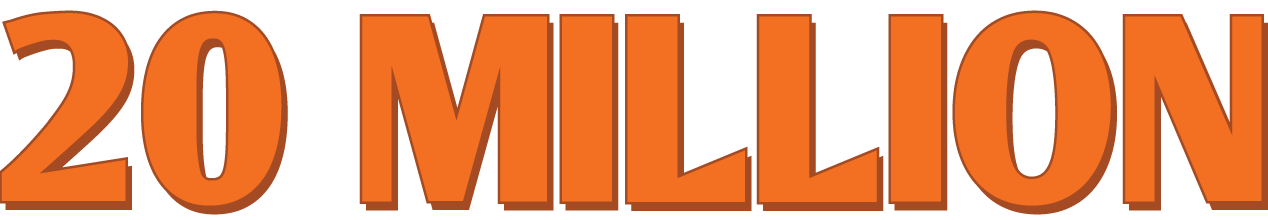
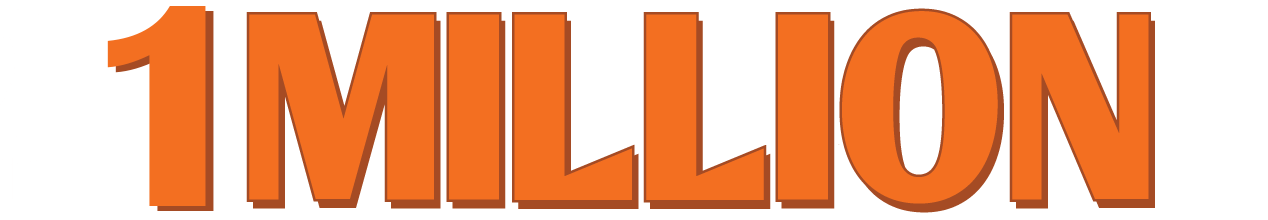
first commit

diff --git a/index Static.html b/index Static.html
@@ -74,7 +74,7 @@ Do the following if you're using your customized build of modernizr (http://www.
       <article id="thesis" class="fluid">
         <p class="medium">Every Day, there are an estimated</p>
         <div class="fluid USInfections">
-        <div id="million" class="backgroundPositionBottom"><p>20 MILLION</p></div>
+        <img src="images/20million.png" alt="1 Million">
           <div class="infectionsUS"><p>STD infections acquired every day worldwide<a href="https://www.who.int/news-room/fact-sheets/detail/sexually-transmitted-infections-(stis)#:~:text=More%20than%201%20million%20sexually,trichomoniasis%20(1%2C%202)." target="_self" title="Want more info? Click here to check out CDC's fact sheet." class="tooltip_link"><img src="images/question_mark.png" alt="More info icon."/></a></p></div>
         </div>
       </article>

diff --git a/css/lowdown-fluid-grid.css b/css/lowdown-fluid-grid.css
@@ -254,7 +254,7 @@ figcaption {
 	min-height: 80px;
 	background-size:100%;
 	background-repeat:no-repeat;
-	background-position:center 220px;
+	background-position:center 200px;
 }
 #million p{
 	opacity: 0;
